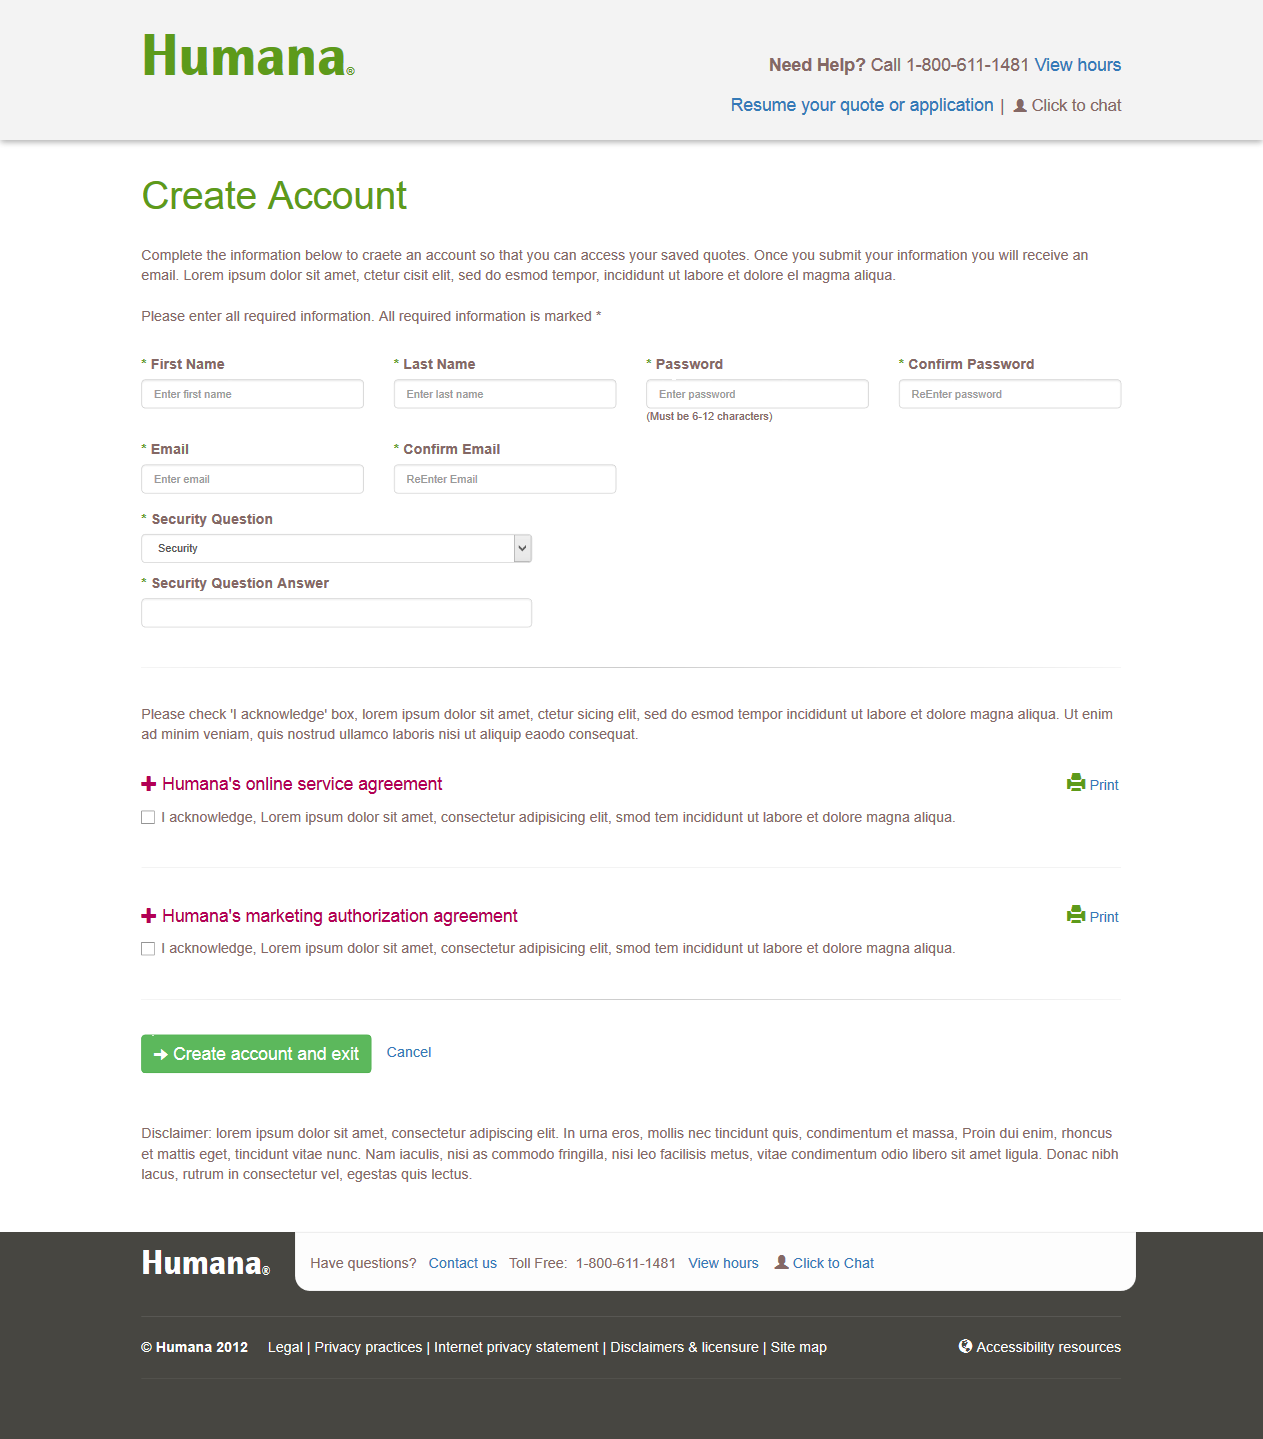
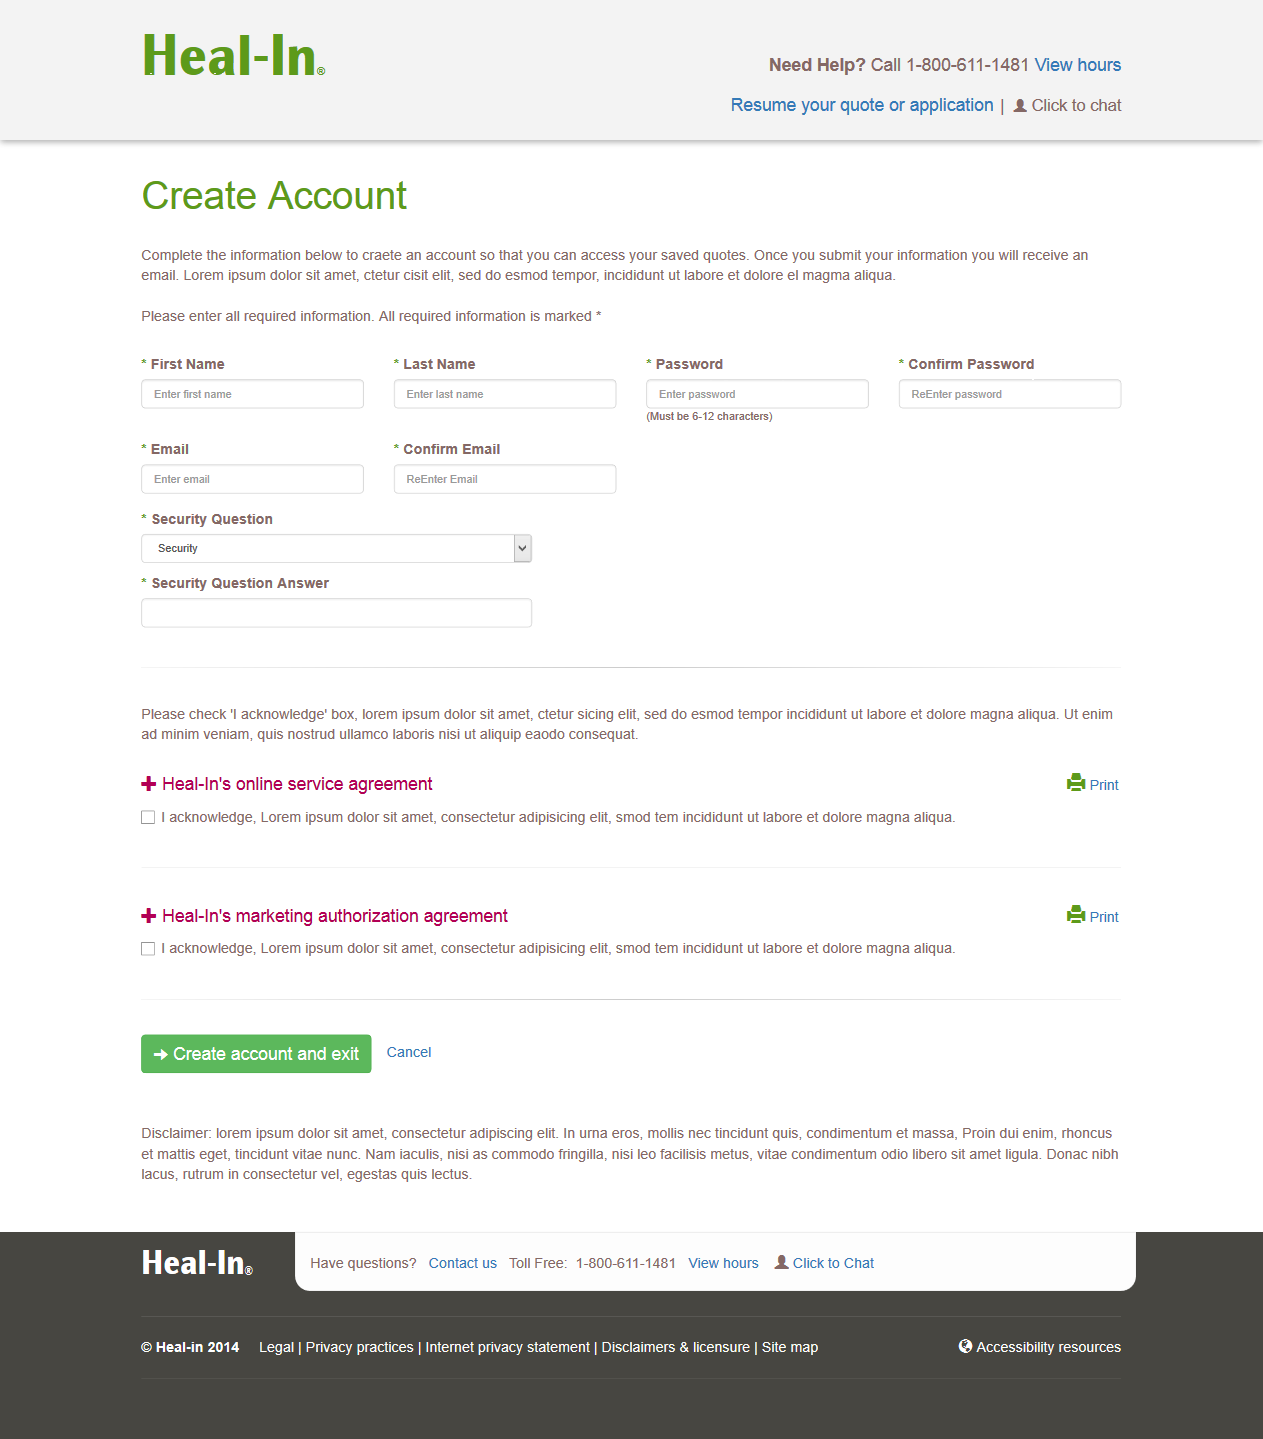
bootstrap changed

diff --git a/Bootstrap-SASS/home.html b/Bootstrap-SASS/home.html
@@ -6,7 +6,7 @@
 	<meta name="viewport" content="width=device-width, initial-scale=1.0">
     <meta name="description" content="">
     <meta name="author" content="">
-	<title>Humana Create Account</title>
+	<title>Heal-In Create Account</title>
 	<link href="http://db.onlinewebfonts.com/c/51154e277433445c0693a150a55da780?family=NatGroteskW00-Black" rel="stylesheet">
 	 <link rel="stylesheet" href="http://maxcdn.bootstrapcdn.com/bootstrap/3.3.5/css/bootstrap.min.css">
 	<link rel="stylesheet" type="text/css" href="css/bootstrap.css">
@@ -17,7 +17,7 @@
 		<div class="container">
 			<div class="row">
 				<div class="col-xs-3 col-sm-3 col-md-3 pull-left">
-					<span class="heading">Humana</span><span class="trademark">&reg;</span>
+					<span class="heading">Heal-In</span><span class="trademark">&reg;</span>
 				</div>
 				<div class="col-xs-5 col-sm-5 col-md-5 pull-right help_section">
 					<p class="pull-right"><span class="help">Need Help?</span><span class="call"> Call 1-800-611-1481 </span><a href="#">View hours</a>
@@ -97,7 +97,7 @@
 				</div>
 				<div class="row agmt">
 					<div class="col-xs-5 col-sm-5 col-md-5 pull-left">
-						<span class="glyphicon glyphicon-plus" style="color:#B20055;font-size:0.9em;"></span> <span> Humana's online service agreement</span>
+						<span class="glyphicon glyphicon-plus" style="color:#B20055;font-size:0.9em;"></span> <span> Heal-In's online service agreement</span>
 					</div>
 					<div class="col-xs-1 col-sm-1 col-md-1 pull-right">
 						<span class="glyphicon glyphicon-print"></span> <span class="print_icon"><a href="">Print</a></span>
@@ -113,7 +113,7 @@
     			<hr>
     			<div class="row agmt">
 					<div class="col-xs-5 col-sm-5 col-md-5 pull-left">
-						<span class="glyphicon glyphicon-plus" style="color:#B20055;font-size:0.9em;"></span> <span> Humana's marketing authorization agreement</span>
+						<span class="glyphicon glyphicon-plus" style="color:#B20055;font-size:0.9em;"></span> <span> Heal-In's marketing authorization agreement</span>
 					</div>
 					<div class="col-xs-1 col-sm-1 col-md-1 pull-right">
 						<span class="glyphicon glyphicon-print"></span> <span class="print_icon"><a href="">Print</a></span>
@@ -146,7 +146,7 @@
 		<div class="container">
 			<div class="row">
 				<div class="col-xs-2 col-sm-2 col-md-2 footer_title">
-					Humana<span id="tm">&reg;</span>
+					Heal-In<span id="tm">&reg;</span>
 				</div>
 				<div class="col-xs-10 col-sm-10 col-md-10 footer_help">
 					
@@ -158,7 +158,7 @@
 			<hr class="trans1">
 			<div class="row">
 				<div class="col-xs-12 col-sm-12 col-md-12 copyright">
-					&copy; <span style="font-weight:bold;color:#fff;">Humana 2012</span> &nbsp; &nbsp; Legal | Privacy practices | Internet privacy statement | Disclaimers & licensure | Site map 
+					&copy; <span style="font-weight:bold;color:#fff;">Heal-in 2014</span> &nbsp; &nbsp; Legal | Privacy practices | Internet privacy statement | Disclaimers & licensure | Site map 
 					<span class="pull-right" style="color: #fff;"><span class="glyphicon glyphicon-globe" style="color:#fff;"></span> Accessibility resources</span>
 				</div>
 			</div>

diff --git a/Bootstrap-SASS/Sass-webpage/home.html b/Bootstrap-SASS/Sass-webpage/home.html
@@ -6,7 +6,7 @@
 	<meta name="viewport" content="width=device-width, initial-scale=1.0">
     <meta name="description" content="">
     <meta name="author" content="">
-	<title>Humana Create Account</title>
+	<title>Heal-In Create Account</title>
 	<link href="http://db.onlinewebfonts.com/c/51154e277433445c0693a150a55da780?family=NatGroteskW00-Black" rel="stylesheet">
 	
 	<link rel="stylesheet" type="text/css" href="stylesheets/reset.css">
@@ -17,7 +17,7 @@
 		<div class="container">
 			<div class="row">
 				<div class="pull_left">
-					<span class="heading">Humana</span><span class="trademark">&reg;</span>
+					<span class="heading">Heal-In</span><span class="trademark">&reg;</span>
 				</div>
 				<div class="pull_right help_section">
 					<p class="pull_right"><span class="help">Need Help?</span><span class="call"> Call 1-800-611-1481 </span><a href="#">View hours</a>
@@ -97,7 +97,7 @@
 				</div>
 				<div class="row agmt">
 					<div class="pull_left">
-						<span class="glyphicon glyphicon-plus" style="color:#B20055;font-size:0.9em;"></span> <span> + Humana's online service agreement</span>
+						<span class="glyphicon glyphicon-plus" style="color:#B20055;font-size:0.9em;"></span> <span> + Heal-In's online service agreement</span>
 					</div>
 					<div class="pull_right">
 						<span class="glyphicon glyphicon-print"></span> <span class="print_icon"><a href="">Print</a></span>
@@ -113,7 +113,7 @@
     			<hr>
     			<div class="row agmt">
 					<div class="pull_left">
-						<span class="glyphicon glyphicon-plus" style="color:#B20055;font-size:0.9em;"></span> <span> + Humana's marketing authorization agreement</span>
+						<span class="glyphicon glyphicon-plus" style="color:#B20055;font-size:0.9em;"></span> <span> + Heal-In's marketing authorization agreement</span>
 					</div>
 					<div class="pull_right">
 						<span class="glyphicon glyphicon-print"></span> <span class="print_icon"><a href="">Print</a></span>
@@ -145,7 +145,7 @@
 	<footer>
 		<div class="container">
 			<div class="row">
-				<div class="footer_title pull_left">Humana<span id="tm">&reg;</span>
+				<div class="footer_title pull_left">Heal-In<span id="tm">&reg;</span>
 				</div>
 				<div class="footer_help pull_left">
 					
@@ -157,7 +157,7 @@
 			<hr class="trans1">
 			<div class="row">
 				<div class="copyright">
-					&copy; <span style="font-weight:bold;color:#fff;">Humana 2012</span> &nbsp; &nbsp; Legal | Privacy practices | Internet privacy statement | Disclaimers & licensure | Site map 
+					&copy; <span style="font-weight:bold;color:#fff;">Heal-In 2014</span> &nbsp; &nbsp; Legal | Privacy practices | Internet privacy statement | Disclaimers & licensure | Site map 
 					<span class="pull_right" style="color: #fff;"><span class="glyphicon glyphicon-globe" style="color:#fff;"></span> Accessibility resources</span>
 				</div>
 			</div>
